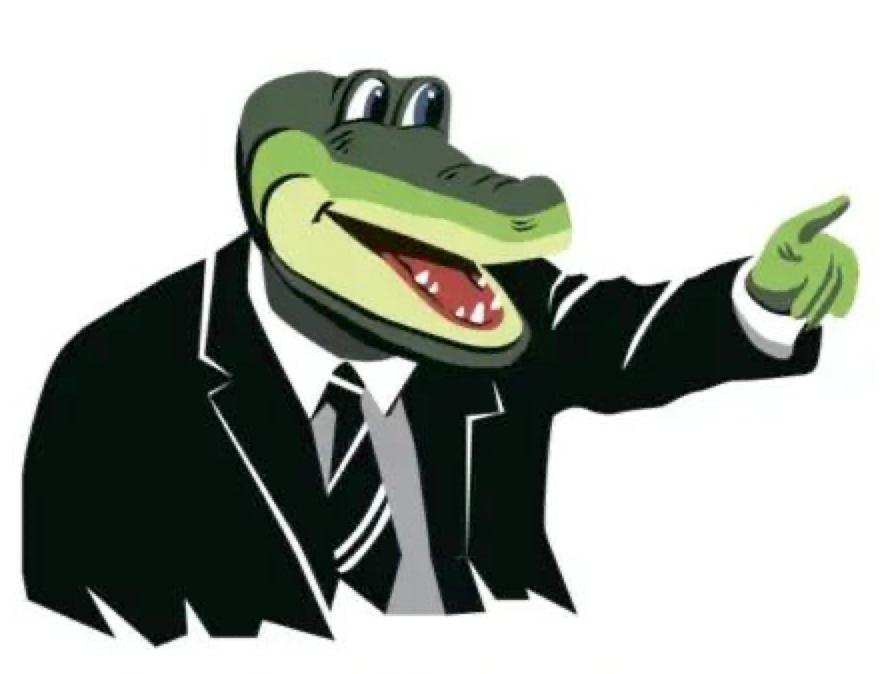
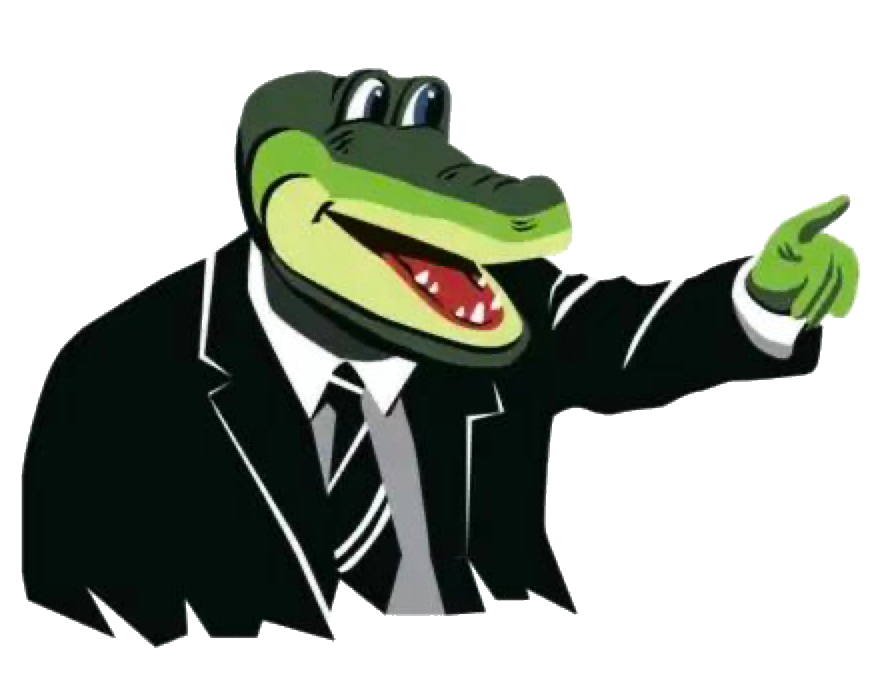
croco2

Changed region(s): [[0.2749, 0.1869, 0.6719, 0.3739], [0.8552, 0.2804, 0.9774, 0.4985], [0.4276, 0.3739, 0.5803, 0.4985]]

diff --git a/frontend/src/pages/Landing.js b/frontend/src/pages/Landing.js
@@ -2,6 +2,7 @@ import './Landing.scss'
 import React from 'react'
 import { Image } from 'react-bootstrap'
 import BackgroundImage from '../images/lines.png'
+import Croco from '../images/croco2.png'
 import FoundersImage from '../images/founders.svg'
 import BelieversImage from '../images/believers.svg'
 import ClaimersImage from '../images/claimers.svg'
@@ -9,17 +10,21 @@ import { Link } from 'react-router-dom'
 
 function LandingPage (props) {
   var background = { backgroundSize: 'cover', backgroundRepeat: 'no-repeat', position: 'absolute', opacity: 0.4 }
+  var backgroundCroco = { backgroundSize: 'cover', backgroundRepeat: 'no-repeat', position: 'absolute', opacity: 0.4, width: '25%', left: '20%', top: '33%' }
   var image = { width: '64px' }
   return (
     <div
       className='container my-auto'
     >
-
-      <div style={{ margin: '5%' }} />
       <Image
         style={background} responsive fluid
         src={BackgroundImage}
       />
+      <Image
+        style={backgroundCroco} responsive fluid
+        src={Croco}
+      />
+      <div style={{ margin: '5%' }} />
       <div className='container content'>
         <div className='row justify-content-evenly'>
           <div className='col-2' />

diff --git a/frontend/src/App.js b/frontend/src/App.js
@@ -299,7 +299,7 @@ class App extends React.Component {
           <nav className='navbar navbar-expand-lg navbar-dark mb-3' style={{ backgroundColor: '#2F2F2F' }}>
             <div className='container-fluid'>
               <Link className='navbar-brand' to='/' title='near.bet'>
-                <img src={Logo} alt='NEAR Accounts Marketplace' className='d-inline-block align-middle' />
+                <img src={Logo} alt='NEAR Accounts Marketplace' className='d-inline-block align-middle' style={{ opacity: 0.85 }} />
                 [BETA] Marketplace
               </Link>
               <button
